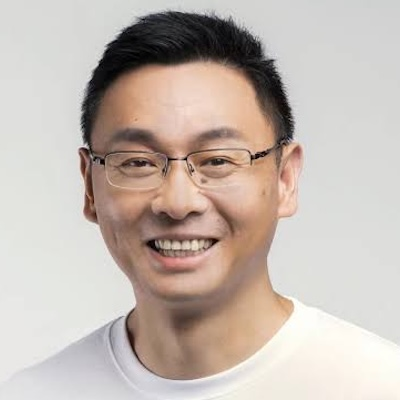
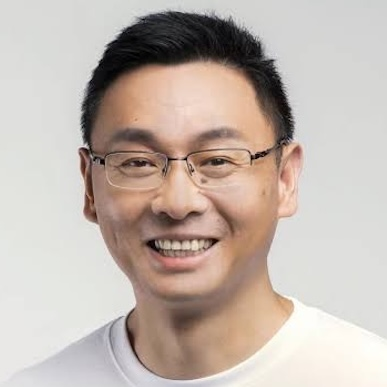
Project page: real photos for Xuemeng Yang, Licheng Wen, Pinlong Cai, Botian Shi (#51)
Wire the four newly-provided author photos into their cards (were globe
placeholders). Also update Shuicheng Yan / Yu Yang photos to the latest
versions and drop the now-unused shuicheng.png.

diff --git a/awesome-agentic-world-model/index.html b/awesome-agentic-world-model/index.html
@@ -510,8 +510,8 @@ a.anchor:hover{opacity:1;color:var(--accent);text-decoration:none}
   <h2>Contributors</h2>
   <div class="contribs">
     <div class="cyc"><img class="cphoto" src="../assets_common/photos/yu_yang.jpeg" alt="Yu Yang" loading="lazy" width="54" height="54"><div class="cinfo"><div class="cname">Yu Yang</div><div class="clinks"><a href="https://yuyang-cloud.github.io" target="_blank" rel="noopener" aria-label="Homepage"><i class="fas fa-globe"></i></a><a href="https://scholar.google.com/citations?user=Ydsf5ZEAAAAJ" target="_blank" rel="noopener" aria-label="Google Scholar"><i class="ai ai-google-scholar"></i></a><a href="https://github.com/yuyang-cloud" target="_blank" rel="noopener" aria-label="GitHub"><i class="fab fa-github"></i></a></div></div></div>
-    <div class="cyc"><div class="cphoto ph"><i class="fas fa-globe"></i></div><div class="cinfo"><div class="cname">Xuemeng Yang</div><div class="clinks"><a href="https://scholar.google.com/citations?user=xGuZsikAAAAJ" target="_blank" rel="noopener" aria-label="Google Scholar"><i class="ai ai-google-scholar"></i></a></div></div></div>
-    <div class="cyc"><div class="cphoto ph"><i class="fas fa-globe"></i></div><div class="cinfo"><div class="cname">Licheng Wen</div><div class="clinks"><a href="https://wenlc.cn" target="_blank" rel="noopener" aria-label="Homepage"><i class="fas fa-globe"></i></a><a href="https://scholar.google.com/citations?user=RNnjXTkAAAAJ" target="_blank" rel="noopener" aria-label="Google Scholar"><i class="ai ai-google-scholar"></i></a><a href="https://github.com/zijinoier" target="_blank" rel="noopener" aria-label="GitHub"><i class="fab fa-github"></i></a></div></div></div>
+    <div class="cyc"><img class="cphoto" src="../assets_common/photos/xuemeng_yang.jpg" alt="Xuemeng Yang" loading="lazy" width="54" height="54"><div class="cinfo"><div class="cname">Xuemeng Yang</div><div class="clinks"><a href="https://scholar.google.com/citations?user=xGuZsikAAAAJ" target="_blank" rel="noopener" aria-label="Google Scholar"><i class="ai ai-google-scholar"></i></a></div></div></div>
+    <div class="cyc"><img class="cphoto" src="../assets_common/photos/licheng_wen.jpg" alt="Licheng Wen" loading="lazy" width="54" height="54"><div class="cinfo"><div class="cname">Licheng Wen</div><div class="clinks"><a href="https://wenlc.cn" target="_blank" rel="noopener" aria-label="Homepage"><i class="fas fa-globe"></i></a><a href="https://scholar.google.com/citations?user=RNnjXTkAAAAJ" target="_blank" rel="noopener" aria-label="Google Scholar"><i class="ai ai-google-scholar"></i></a><a href="https://github.com/zijinoier" target="_blank" rel="noopener" aria-label="GitHub"><i class="fab fa-github"></i></a></div></div></div>
     <div class="cyc"><img class="cphoto" src="../assets_common/photos/lingdong_kong.jpg" alt="Lingdong Kong" loading="lazy" width="54" height="54"><div class="cinfo"><div class="cname">Lingdong Kong</div><div class="clinks"><a href="mailto:lingdong.kong@u.nus.edu" aria-label="Email"><i class="fas fa-envelope"></i></a><a href="https://ldkong.com" target="_blank" rel="noopener" aria-label="Homepage"><i class="fas fa-globe"></i></a><a href="https://scholar.google.com/citations?user=-j1j7TkAAAAJ&amp;hl=en" target="_blank" rel="noopener" aria-label="Google Scholar"><i class="ai ai-google-scholar"></i></a><a href="https://github.com/ldkong1205/" target="_blank" rel="noopener" aria-label="GitHub"><i class="fab fa-github"></i></a><a href="https://www.linkedin.com/in/ldkong/" target="_blank" rel="noopener" aria-label="LinkedIn"><i class="fab fa-linkedin"></i></a><a href="https://twitter.com/ldkong1205" target="_blank" rel="noopener" aria-label="X"><i class="fab fa-x-twitter"></i></a></div></div></div>
     <div class="cyc"><div class="cphoto ph"><i class="fas fa-globe"></i></div><div class="cinfo"><div class="cname">Jiangning Zhang</div><div class="clinks"><a href="https://zhangzjn.github.io" target="_blank" rel="noopener" aria-label="Homepage"><i class="fas fa-globe"></i></a><a href="https://scholar.google.com.hk/citations?user=2hA4X9wAAAAJ" target="_blank" rel="noopener" aria-label="Google Scholar"><i class="ai ai-google-scholar"></i></a><a href="https://github.com/zhangzjn" target="_blank" rel="noopener" aria-label="GitHub"><i class="fab fa-github"></i></a></div></div></div>
     <div class="cyc"><div class="cphoto ph"><i class="fas fa-globe"></i></div><div class="cinfo"><div class="cname">Xiaobin Hu</div><div class="clinks"><a href="https://huuxiaobin.github.io" target="_blank" rel="noopener" aria-label="Homepage"><i class="fas fa-globe"></i></a><a href="https://github.com/HUuxiaobin" target="_blank" rel="noopener" aria-label="GitHub"><i class="fab fa-github"></i></a></div></div></div>
@@ -523,8 +523,8 @@ a.anchor:hover{opacity:1;color:var(--accent);text-decoration:none}
     <div class="cyc"><img class="cphoto" src="../assets_common/photos/jianbiao_mei.jpg" alt="Jianbiao Mei" loading="lazy" width="54" height="54"><div class="cinfo"><div class="cname">Jianbiao Mei</div><div class="clinks"><a href="https://jianbiaomei.github.io/" target="_blank" rel="noopener" aria-label="Homepage"><i class="fas fa-globe"></i></a><a href="https://scholar.google.com/citations?user=OUtPkg0AAAAJ&amp;hl=en" target="_blank" rel="noopener" aria-label="Google Scholar"><i class="ai ai-google-scholar"></i></a><a href="https://github.com/Jieqianyu" target="_blank" rel="noopener" aria-label="GitHub"><i class="fab fa-github"></i></a></div></div></div>
     <div class="cyc"><div class="cphoto ph"><i class="fas fa-globe"></i></div><div class="cinfo"><div class="cname">Daocheng Fu</div><div class="clinks"><a href="https://fudaocheng.github.io/AcademicPage" target="_blank" rel="noopener" aria-label="Homepage"><i class="fas fa-globe"></i></a><a href="https://scholar.google.com/citations?user=vIU6eHYAAAAJ" target="_blank" rel="noopener" aria-label="Google Scholar"><i class="ai ai-google-scholar"></i></a><a href="https://github.com/fudaocheng" target="_blank" rel="noopener" aria-label="GitHub"><i class="fab fa-github"></i></a></div></div></div>
     <div class="cyc"><div class="cphoto ph"><i class="fas fa-globe"></i></div><div class="cinfo"><div class="cname">Rong Wu</div></div></div>
-    <div class="cyc"><div class="cphoto ph"><i class="fas fa-globe"></i></div><div class="cinfo"><div class="cname">Pinlong Cai</div><div class="clinks"><a href="https://caipinlong.top" target="_blank" rel="noopener" aria-label="Homepage"><i class="fas fa-globe"></i></a><a href="https://scholar.google.com.hk/citations?user=H6mQGfAAAAAJ" target="_blank" rel="noopener" aria-label="Google Scholar"><i class="ai ai-google-scholar"></i></a><a href="https://github.com/pinlong-cai" target="_blank" rel="noopener" aria-label="GitHub"><i class="fab fa-github"></i></a></div></div></div>
-    <div class="cyc"><div class="cphoto ph"><i class="fas fa-globe"></i></div><div class="cinfo"><div class="cname">Botian Shi</div><div class="clinks"><a href="https://pjlab-adg.github.io" target="_blank" rel="noopener" aria-label="Homepage"><i class="fas fa-globe"></i></a><a href="https://scholar.google.com/citations?user=K0PpvLkAAAAJ" target="_blank" rel="noopener" aria-label="Google Scholar"><i class="ai ai-google-scholar"></i></a><a href="https://github.com/PJLab-ADG" target="_blank" rel="noopener" aria-label="GitHub"><i class="fab fa-github"></i></a></div></div></div>
+    <div class="cyc"><img class="cphoto" src="../assets_common/photos/pinlong_cai.jpg" alt="Pinlong Cai" loading="lazy" width="54" height="54"><div class="cinfo"><div class="cname">Pinlong Cai</div><div class="clinks"><a href="https://caipinlong.top" target="_blank" rel="noopener" aria-label="Homepage"><i class="fas fa-globe"></i></a><a href="https://scholar.google.com.hk/citations?user=H6mQGfAAAAAJ" target="_blank" rel="noopener" aria-label="Google Scholar"><i class="ai ai-google-scholar"></i></a><a href="https://github.com/pinlong-cai" target="_blank" rel="noopener" aria-label="GitHub"><i class="fab fa-github"></i></a></div></div></div>
+    <div class="cyc"><img class="cphoto" src="../assets_common/photos/botian_shi.jpg" alt="Botian Shi" loading="lazy" width="54" height="54"><div class="cinfo"><div class="cname">Botian Shi</div><div class="clinks"><a href="https://pjlab-adg.github.io" target="_blank" rel="noopener" aria-label="Homepage"><i class="fas fa-globe"></i></a><a href="https://scholar.google.com/citations?user=K0PpvLkAAAAJ" target="_blank" rel="noopener" aria-label="Google Scholar"><i class="ai ai-google-scholar"></i></a><a href="https://github.com/PJLab-ADG" target="_blank" rel="noopener" aria-label="GitHub"><i class="fab fa-github"></i></a></div></div></div>
     <div class="cyc"><img class="cphoto" src="../assets_common/photos/yong_liu.png" alt="Yong Liu" loading="lazy" width="54" height="54"><div class="cinfo"><div class="cname">Yong Liu</div><div class="clinks"><a href="https://april.zju.edu.cn/team/dr-yong-liu/" target="_blank" rel="noopener" aria-label="Homepage"><i class="fas fa-globe"></i></a><a href="https://scholar.google.com/citations?user=qYcgBbEAAAAJ&amp;hl=en" target="_blank" rel="noopener" aria-label="Google Scholar"><i class="ai ai-google-scholar"></i></a><a href="https://github.com/APRIL-ZJU" target="_blank" rel="noopener" aria-label="GitHub"><i class="fab fa-github"></i></a></div></div></div>
     <div class="cyc"><img class="cphoto" src="../assets_common/photos/shuicheng.jpeg" alt="Shuicheng Yan" loading="lazy" width="54" height="54"><div class="cinfo"><div class="cname">Shuicheng Yan</div><div class="clinks"><a href="https://yanshuicheng.info" target="_blank" rel="noopener" aria-label="Homepage"><i class="fas fa-globe"></i></a><a href="https://scholar.google.com/citations?user=DNuiPHwAAAAJ" target="_blank" rel="noopener" aria-label="Google Scholar"><i class="ai ai-google-scholar"></i></a><a href="https://www.linkedin.com/in/shuicheng-yan-123a866/" target="_blank" rel="noopener" aria-label="LinkedIn"><i class="fab fa-linkedin"></i></a></div></div></div>
   </div>
